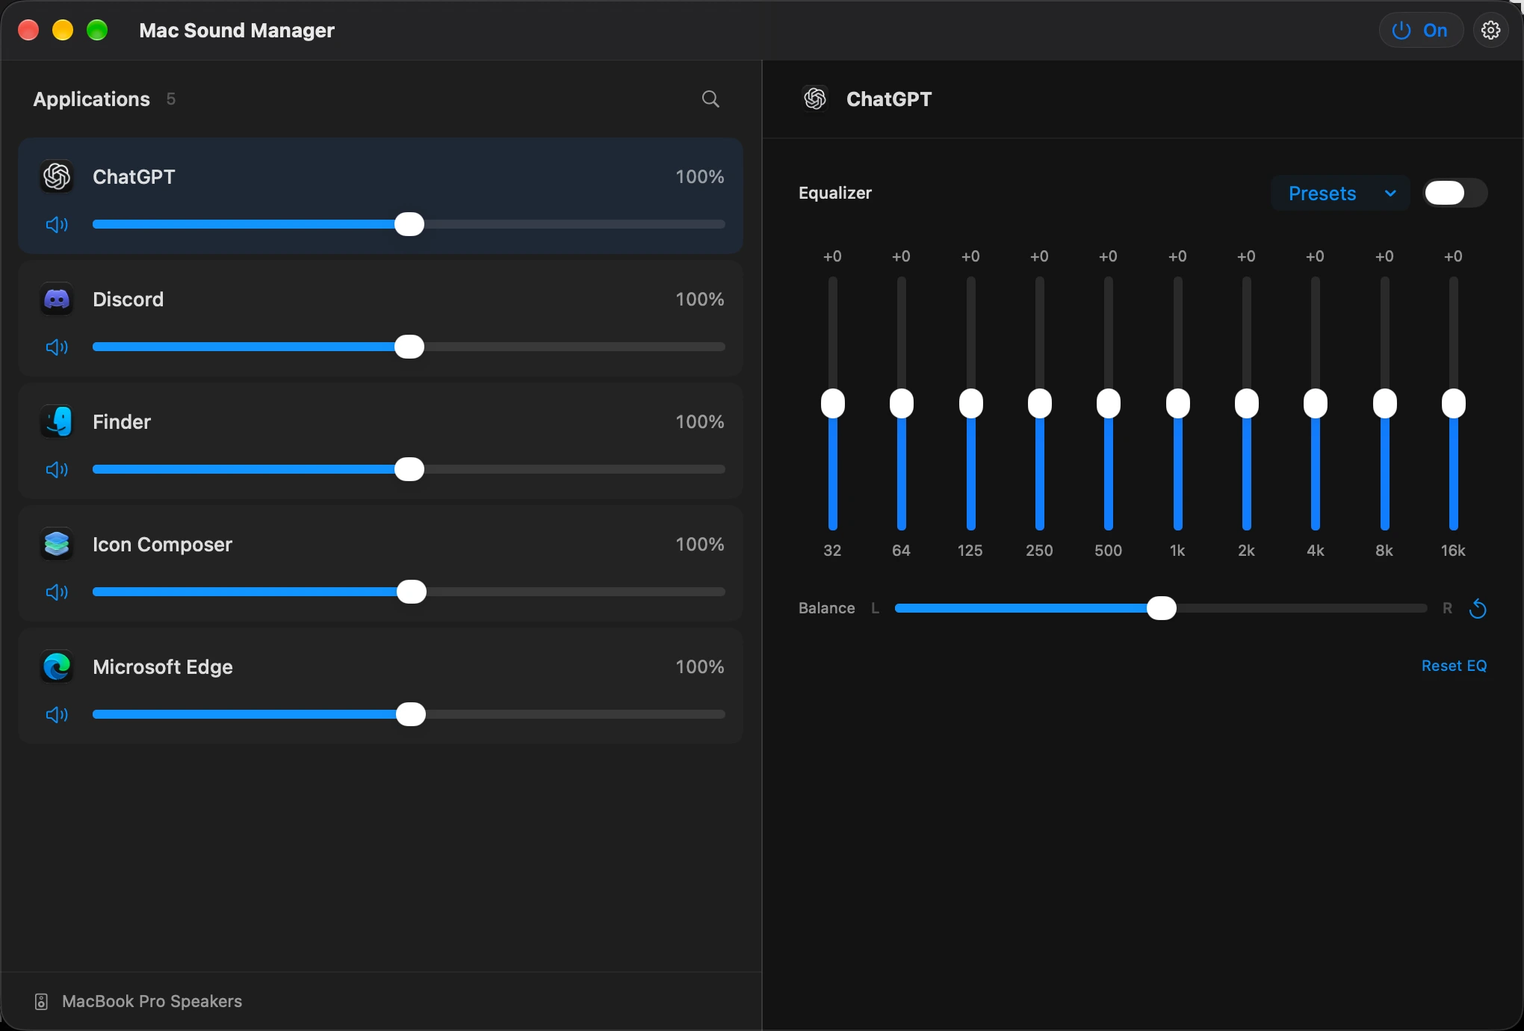
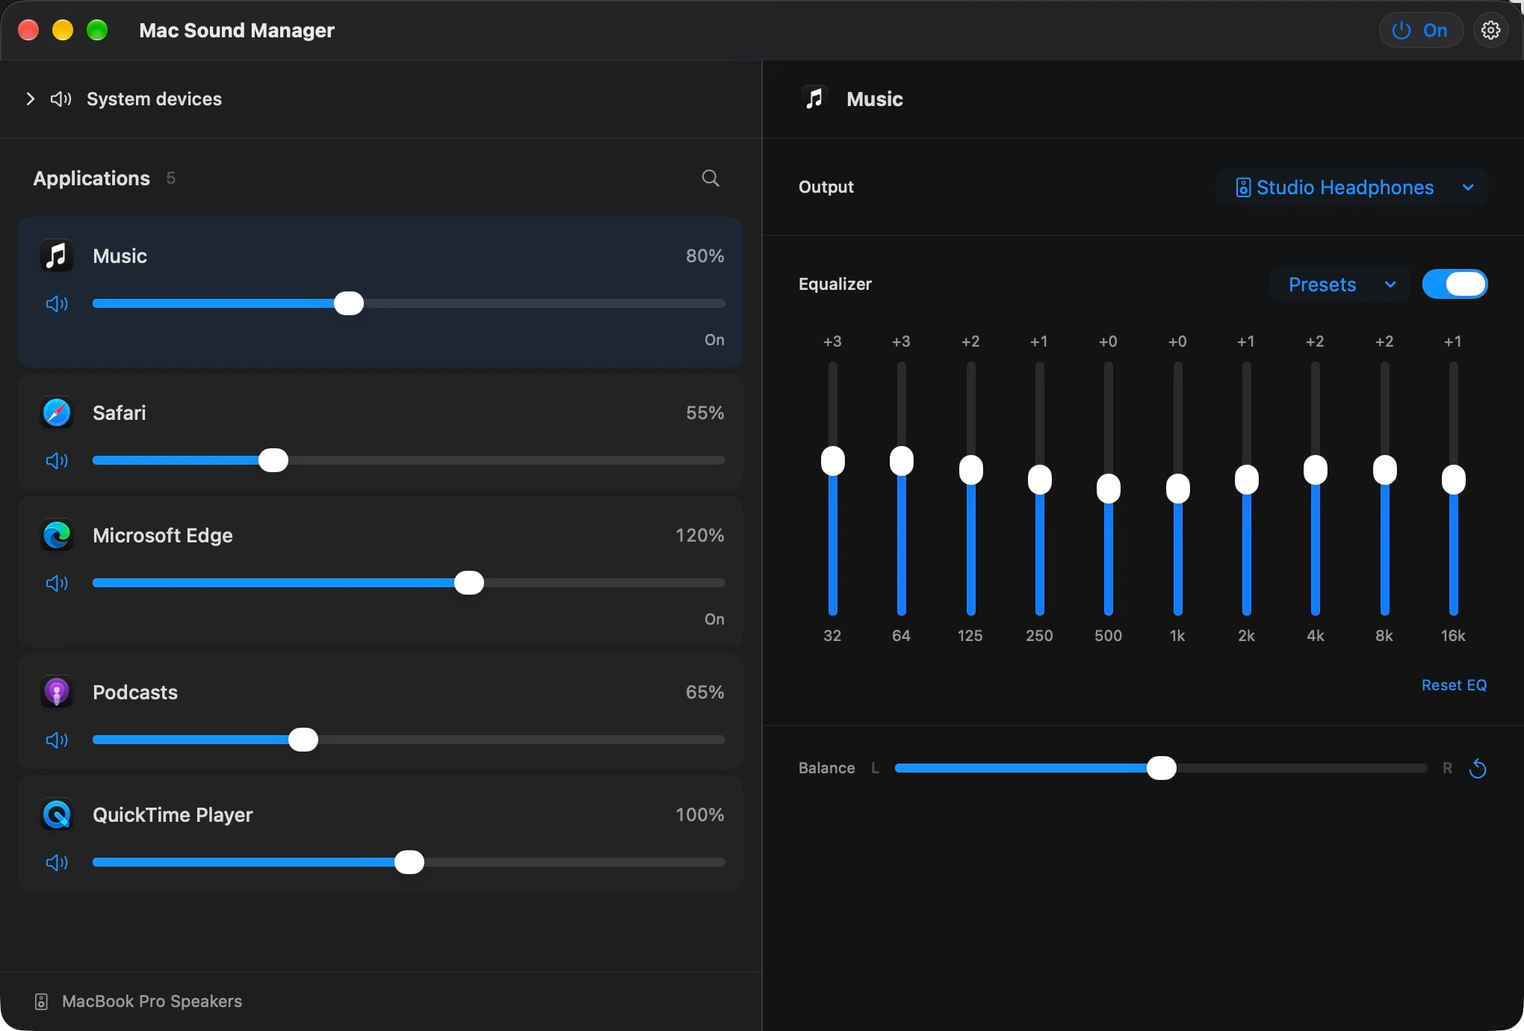
Update Mac Sound Manager for 0.4.0
Add output routing and system audio controls to the product page, update screenshots and feature copy, publish 0.4.0 download links and release notes, and document saved device preferences in the privacy policy.

diff --git a/mac-sound-manager/index.html b/mac-sound-manager/index.html
@@ -4,7 +4,7 @@
   <meta charset="utf-8">
   <meta name="viewport" content="width=device-width, initial-scale=1">
   <title>Mac Sound Manager — A volume knob for every app</title>
-  <meta name="description" content="A native, open-source volume mixer for Mac. Set volume for each app, shape its sound with a 10-band EQ, and keep your mix in the menu bar.">
+  <meta name="description" content="A native, open-source volume mixer for Mac. Set each app’s volume and output device, shape its sound with a 10-band EQ, and manage system audio from one native mixer.">
   <link rel="canonical" href="https://stefanmihajlovic.com/mac-sound-manager/">
   <meta property="og:type" content="website">
   <meta property="og:title" content="Mac Sound Manager — A volume knob for every app">
@@ -15,9 +15,9 @@
   <meta name="theme-color" content="#f6f8fa">
   <link rel="icon" href="assets/icon-dark.png" type="image/png">
   <link rel="preload" href="/fonts/cabinet-grotesk-variable.woff2" as="font" type="font/woff2" crossorigin>
-  <link rel="stylesheet" href="style.css?v=github-icon-1">
+  <link rel="stylesheet" href="style.css?v=040-screenshots-1">
   <script src="page.js?v=section-parallax-1" defer></script>
-  <script type="application/ld+json">{"@context":"https://schema.org","@type":"SoftwareApplication","name":"Mac Sound Manager","url":"https://stefanmihajlovic.com/mac-sound-manager/","image":"https://stefanmihajlovic.com/mac-sound-manager/assets/icon-dark.png","operatingSystem":"macOS 14.2 or later","applicationCategory":"MultimediaApplication","softwareVersion":"0.3.2","license":"https://opensource.org/license/mit","codeRepository":"https://github.com/Stefan-Mihajlovic/Mac-Sound-Manager","offers":{"@type":"Offer","price":"0","priceCurrency":"USD"},"author":{"@type":"Person","name":"Stefan Mihajlovic","url":"https://stefanmihajlovic.com/"}}</script>
+  <script type="application/ld+json">{"@context":"https://schema.org","@type":"SoftwareApplication","name":"Mac Sound Manager","url":"https://stefanmihajlovic.com/mac-sound-manager/","image":"https://stefanmihajlovic.com/mac-sound-manager/assets/icon-dark.png","operatingSystem":"macOS 14.2 or later","applicationCategory":"MultimediaApplication","softwareVersion":"0.4.0","license":"https://opensource.org/license/mit","codeRepository":"https://github.com/Stefan-Mihajlovic/Mac-Sound-Manager","offers":{"@type":"Offer","price":"0","priceCurrency":"USD"},"author":{"@type":"Person","name":"Stefan Mihajlovic","url":"https://stefanmihajlovic.com/"}}</script>
 </head>
 <body>
 <a class="skip-link" href="#main">Skip to content</a>
@@ -25,7 +25,7 @@
 
 <header class="floating-header" aria-label="Quick navigation" inert>
   <a class="brand" href="#top"><img src="assets/icon-dark.webp" width="34" height="34" alt=""><span>Mac Sound Manager</span></a>
-  <nav aria-label="Download navigation"><a href="/mac-sound-manager/release-notes/">Release notes</a><a class="button primary" href="https://github.com/Stefan-Mihajlovic/Mac-Sound-Manager/releases/download/v0.3.2/Mac-Sound-Manager-0.3.2-universal.dmg"><svg aria-hidden="true"><use href="#download-icon"/></svg> <span>Download<span class="button-platform"> for Mac</span></span></a></nav>
+  <nav aria-label="Download navigation"><a href="/mac-sound-manager/release-notes/">Release notes</a><a class="button primary" href="https://github.com/Stefan-Mihajlovic/Mac-Sound-Manager/releases/download/v0.4.0/Mac-Sound-Manager-0.4.0-universal.dmg"><svg aria-hidden="true"><use href="#download-icon"/></svg> <span>Download<span class="button-platform"> for Mac</span></span></a></nav>
 </header>
 <main id="main"><div class="hero-backdrop" id="top">
 <svg xmlns="http://www.w3.org/2000/svg" class="hero-waves" aria-hidden="true" focusable="false" viewBox="0 0 1600 520" preserveAspectRatio="none" fill="none">
@@ -45,20 +45,28 @@
 
 <header class="site-header wrap"><a class="brand" href="#top"><img src="assets/icon-dark.webp" width="34" height="34" alt=""><span>Mac Sound Manager</span></a><nav aria-label="Main navigation"><a href="/mac-sound-manager/release-notes/">Release notes</a><a class="github-link" href="https://github.com/Stefan-Mihajlovic/Mac-Sound-Manager"><svg class="github-icon" aria-hidden="true" focusable="false" width="24" height="24" viewBox="0 0 24 24" fill="none" xmlns="http://www.w3.org/2000/svg"><g><path fill-rule="evenodd" clip-rule="evenodd" d="M12.0099 0C5.36875 0 0 5.40833 0 12.0992C0 17.4475 3.43994 21.9748 8.21205 23.5771C8.80869 23.6976 9.02724 23.3168 9.02724 22.9965C9.02724 22.716 9.00757 21.7545 9.00757 20.7527C5.6667 21.474 4.97099 19.3104 4.97099 19.3104C4.43409 17.9082 3.63858 17.5478 3.63858 17.5478C2.54511 16.8066 3.71823 16.8066 3.71823 16.8066C4.93117 16.8868 5.56763 18.0486 5.56763 18.0486C6.64118 19.8913 8.37111 19.3707 9.06706 19.0501C9.16638 18.2688 9.48473 17.728 9.82275 17.4276C7.15817 17.1471 4.35469 16.1055 4.35469 11.458C4.35469 10.1359 4.8316 9.05428 5.58729 8.21304C5.46807 7.91263 5.0504 6.67043 5.70677 5.00787C5.70677 5.00787 6.72083 4.6873 9.00732 6.24981C9.98625 5.98497 10.9958 5.85024 12.0099 5.84911C13.024 5.84911 14.0577 5.98948 15.0123 6.24981C17.299 4.6873 18.3131 5.00787 18.3131 5.00787C18.9695 6.67043 18.5515 7.91263 18.4323 8.21304C19.2079 9.05428 19.6652 10.1359 19.6652 11.458C19.6652 16.1055 16.8617 17.1269 14.1772 17.4276C14.6148 17.8081 14.9924 18.5292 14.9924 19.6711C14.9924 21.2936 14.9727 22.5957 14.9727 22.9962C14.9727 23.3168 15.1915 23.6976 15.7879 23.5774C20.56 21.9745 23.9999 17.4475 23.9999 12.0992C24.0196 5.40833 18.6312 0 12.0099 0Z" fill="currentColor"/></g></svg><span>GitHub</span></a></nav></header>
 <section class="hero wrap" aria-labelledby="hero-title">
-<div class="hero-copy"><h1 id="hero-title">Mac Sound Manager</h1><p>Free &amp; open source · macOS 14.2+</p><a class="button primary" href="https://github.com/Stefan-Mihajlovic/Mac-Sound-Manager/releases/download/v0.3.2/Mac-Sound-Manager-0.3.2-universal.dmg"><svg aria-hidden="true"><use href="#download-icon"/></svg> <span>Download<span class="button-platform"> for Mac</span></span></a></div>
-<figure class="app-shot"><img src="assets/app-window.webp" width="2040" height="1380" fetchpriority="high" alt="Mac Sound Manager with horizontal volume controls for open apps and a separate equalizer panel"></figure>
+<div class="hero-copy"><h1 id="hero-title">Mac Sound Manager</h1><p>Free &amp; open source · macOS 14.2+</p><a class="button primary" href="https://github.com/Stefan-Mihajlovic/Mac-Sound-Manager/releases/download/v0.4.0/Mac-Sound-Manager-0.4.0-universal.dmg"><svg aria-hidden="true"><use href="#download-icon"/></svg> <span>Download<span class="button-platform"> for Mac</span></span></a></div>
+<figure class="app-shot"><img src="assets/app-window.webp?v=040" width="2040" height="1380" fetchpriority="high" alt="Mac Sound Manager mixing Music, Safari, Microsoft Edge, Podcasts and QuickTime Player, with a separate output and equalizer panel"></figure>
 </section></div>
 <section class="feature-section wrap" id="features" aria-labelledby="menu-title">
-  <div class="feature-copy"><h2 id="menu-title">Always in your<br>menu bar</h2><p>Adjust any open app without leaving what you’re doing, even before it starts playing</p></div>
-  <figure class="product-scene menu-scene"><img src="assets/menu-bar.webp" width="876" height="686" loading="lazy" alt="Mac Sound Manager’s menu bar popup with a volume slider for each open app"></figure>
+  <div class="feature-copy"><h2 id="menu-title">Always in your<br>menu bar</h2><p>Set each app’s volume up to 200% or mute it with a click, even before it starts playing. Open the full mixer or system devices straight from the menu bar.</p></div>
+  <figure class="product-scene menu-scene"><img src="assets/menu-bar.webp?v=040" width="876" height="700" loading="lazy" alt="Mac Sound Manager’s menu bar popup with a volume slider for each open app"></figure>
 </section>
 <section class="feature-section eq-section wrap" aria-labelledby="eq-title">
-  <figure class="product-scene equalizer-scene"><img src="assets/equalizer.webp" width="1014" height="870" loading="lazy" alt="The app’s ten-band equalizer, presets menu and left–right balance control"></figure>
-  <div class="feature-copy"><h2 id="eq-title">Get the sound<br>you like</h2><p>Adjust the bass, treble and left–right balance for each app, then save your settings as a preset</p></div>
+  <figure class="product-scene equalizer-scene"><img src="assets/equalizer.webp?v=040" width="1020" height="1010" loading="lazy" alt="The app’s ten-band equalizer, presets menu and left–right balance control"></figure>
+  <div class="feature-copy"><h2 id="eq-title">Get the sound<br>you like</h2><p>Shape each app with a 10-band equalizer and left–right balance. Start with a built-in preset, or save your own EQ curves to reuse across apps.</p></div>
+</section>
+<section class="feature-section routing-section wrap" aria-labelledby="routing-title">
+  <div class="feature-copy"><h2 id="routing-title">Choose where<br>each app plays</h2><p>Send your music to headphones and keep your browser on the speakers. Choose a connected output for each app, or let it follow your Mac’s system output.</p><p class="feature-note">Your choices are remembered when devices disconnect and reconnect. Routing applies while processing is on.</p></div>
+  <figure class="product-scene routing-scene"><img src="assets/routing.webp?v=040" width="1020" height="375" loading="lazy" alt="Music output selector with System output, MacBook Pro Speakers and Studio Headphones choices"></figure>
+</section>
+<section class="feature-section eq-section devices-section wrap" aria-labelledby="devices-title">
+  <figure class="product-scene devices-scene"><img src="assets/system-devices.webp?v=040" width="1020" height="464" loading="lazy" alt="System devices controls for speakers, microphone and sound effects, with output and input volume sliders"></figure>
+  <div class="feature-copy"><h2 id="devices-title">Your Mac’s audio,<br>in one place</h2><p>Switch the system output, microphone and sound-effects device. Adjust output and input volume when the device supports it, even with app processing turned off.</p></div>
 </section>
 <section class="remember-section wrap" aria-labelledby="remember-title">
-  <div class="feature-copy"><h2 id="remember-title">Just how you left it</h2><p>Your volume and EQ settings are remembered when you restart, with an option to open the app when you log in</p></div>
-  <figure class="settings-shot"><img src="assets/settings.webp" width="792" height="330" loading="lazy" alt="Settings for showing the app in the menu bar or Dock and launching at login"></figure>
+  <div class="feature-copy"><h2 id="remember-title">Just how you left it</h2><p>Volume, mute, EQ, balance and output choices are saved automatically. Turn the mixer off without losing your mix, start at login, and choose whether it appears in the menu bar or Dock.</p></div>
+  <figure class="settings-shot"><img src="assets/settings.webp?v=040" width="800" height="340" loading="lazy" alt="Settings for showing the app in the menu bar or Dock and launching at login"></figure>
 </section>
 </main>
 <footer class="site-footer">
@@ -82,8 +90,9 @@
 
   <section class="download-section wrap" id="download" aria-labelledby="download-title">
     <h2 id="download-title">Get Mac Sound Manager</h2>
-    <a class="button primary" href="https://github.com/Stefan-Mihajlovic/Mac-Sound-Manager/releases/download/v0.3.2/Mac-Sound-Manager-0.3.2-universal.dmg"><svg aria-hidden="true"><use href="#download-icon"/></svg> <span>Download<span class="button-platform"> for Mac</span></span></a>
-    <p class="compatibility">Free &amp; open source · macOS 14.2+</p>
+    <a class="button primary" href="https://github.com/Stefan-Mihajlovic/Mac-Sound-Manager/releases/download/v0.4.0/Mac-Sound-Manager-0.4.0-universal.dmg"><svg aria-hidden="true"><use href="#download-icon"/></svg> <span>Download<span class="button-platform"> for Mac</span></span></a>
+    <p class="compatibility">Free &amp; open source · macOS 14.2+ · Apple Silicon &amp; Intel</p>
+    <p class="release-disclosure">0.4.0 development build · Not notarized by Apple. <a href="/mac-sound-manager/release-notes/#install-040">Installation details</a></p>
   </section>
   <div class="footer-inner wrap"><a class="footer-author" href="/">Made by <span>Stefan Mihajlovic</span></a><nav aria-label="Footer navigation"><a class="github-link" href="https://github.com/Stefan-Mihajlovic/Mac-Sound-Manager"><svg class="github-icon" aria-hidden="true" focusable="false" width="24" height="24" viewBox="0 0 24 24" fill="none" xmlns="http://www.w3.org/2000/svg"><g><path fill-rule="evenodd" clip-rule="evenodd" d="M12.0099 0C5.36875 0 0 5.40833 0 12.0992C0 17.4475 3.43994 21.9748 8.21205 23.5771C8.80869 23.6976 9.02724 23.3168 9.02724 22.9965C9.02724 22.716 9.00757 21.7545 9.00757 20.7527C5.6667 21.474 4.97099 19.3104 4.97099 19.3104C4.43409 17.9082 3.63858 17.5478 3.63858 17.5478C2.54511 16.8066 3.71823 16.8066 3.71823 16.8066C4.93117 16.8868 5.56763 18.0486 5.56763 18.0486C6.64118 19.8913 8.37111 19.3707 9.06706 19.0501C9.16638 18.2688 9.48473 17.728 9.82275 17.4276C7.15817 17.1471 4.35469 16.1055 4.35469 11.458C4.35469 10.1359 4.8316 9.05428 5.58729 8.21304C5.46807 7.91263 5.0504 6.67043 5.70677 5.00787C5.70677 5.00787 6.72083 4.6873 9.00732 6.24981C9.98625 5.98497 10.9958 5.85024 12.0099 5.84911C13.024 5.84911 14.0577 5.98948 15.0123 6.24981C17.299 4.6873 18.3131 5.00787 18.3131 5.00787C18.9695 6.67043 18.5515 7.91263 18.4323 8.21304C19.2079 9.05428 19.6652 10.1359 19.6652 11.458C19.6652 16.1055 16.8617 17.1269 14.1772 17.4276C14.6148 17.8081 14.9924 18.5292 14.9924 19.6711C14.9924 21.2936 14.9727 22.5957 14.9727 22.9962C14.9727 23.3168 15.1915 23.6976 15.7879 23.5774C20.56 21.9745 23.9999 17.4475 23.9999 12.0992C24.0196 5.40833 18.6312 0 12.0099 0Z" fill="currentColor"/></g></svg><span>GitHub</span></a><a href="/mac-sound-manager/release-notes/">Release notes</a><a href="/mac-sound-manager/privacy/">Privacy policy</a></nav></div>
 </footer>

diff --git a/mac-sound-manager/release-notes/index.html b/mac-sound-manager/release-notes/index.html
@@ -21,12 +21,31 @@
 </head>
 <body class="document-page">
 <a class="skip-link" href="#main">Skip to content</a>
-<header class="site-header wrap"><a class="brand" href="/mac-sound-manager/"><img src="/mac-sound-manager/assets/icon-dark.webp" width="34" height="34" alt=""><span>Mac Sound Manager</span></a><nav aria-label="Main navigation"><a href="/mac-sound-manager/">Back to app</a><a class="button primary" href="https://github.com/Stefan-Mihajlovic/Mac-Sound-Manager/releases/download/v0.3.2/Mac-Sound-Manager-0.3.2-universal.dmg"><svg aria-hidden="true" viewBox="0 0 24 24"><path d="M12 3v12m-5-5 5 5 5-5M4 16v5h16v-5"/></svg> <span>Download<span class="button-platform"> for Mac</span></span></a></nav></header>
+<header class="site-header wrap"><a class="brand" href="/mac-sound-manager/"><img src="/mac-sound-manager/assets/icon-dark.webp" width="34" height="34" alt=""><span>Mac Sound Manager</span></a><nav aria-label="Main navigation"><a href="/mac-sound-manager/">Back to app</a><a class="button primary" href="https://github.com/Stefan-Mihajlovic/Mac-Sound-Manager/releases/download/v0.4.0/Mac-Sound-Manager-0.4.0-universal.dmg"><svg aria-hidden="true" viewBox="0 0 24 24"><path d="M12 3v12m-5-5 5 5 5-5M4 16v5h16v-5"/></svg> <span>Download<span class="button-platform"> for Mac</span></span></a></nav></header>
 <main class="document-main" id="main">
   <header class="document-intro"><h1>Release notes</h1><p>What’s new in Mac Sound Manager</p></header>
+  <article class="release-entry" aria-labelledby="release-040">
+    <div class="release-heading"><h2 id="release-040">0.4.0</h2><time datetime="2026-11-03">November 3, 2026</time></div>
+    <p class="release-summary">Output routing and system audio controls</p>
+    <ul>
+      <li>Choose a separate output device for each app, or follow the system output</li>
+      <li>Remember device selections across launches and reconnect when devices return</li>
+      <li>Switch the system output, microphone and sound-effects destination, with hardware volume controls where supported</li>
+      <li>Use a cleaner detail panel with separate Output, Equalizer and Balance sections</li>
+      <li>Open System devices from the menu-bar mixer, with the main-window section collapsed by default</li>
+      <li>Use shorter, direct device menus and smooth section expansion</li>
+      <li>Avoid redundant app-list updates and stop periodic audio discovery while the mixer is off or asleep</li>
+      <li>Keep per-app volume up to 200%, mute, ten-band EQ, saved EQ presets, balance and launch-at-login options</li>
+    </ul>
+    <p>A universal development build for Apple Silicon and Intel Macs running macOS 14.2 or later.</p>
+    <a class="button primary" href="https://github.com/Stefan-Mihajlovic/Mac-Sound-Manager/releases/download/v0.4.0/Mac-Sound-Manager-0.4.0-universal.dmg"><svg aria-hidden="true" viewBox="0 0 24 24"><path d="M12 3v12m-5-5 5 5 5-5M4 16v5h16v-5"/></svg> Download 0.4.0</a>
+    <section aria-labelledby="install-040"><h3 id="install-040">Installing this development build</h3><p>Open the DMG, drag Mac Sound Manager into Applications, then launch it. Allow system audio recording when prompted to enable app processing.</p><p>This build is ad-hoc signed, not Developer ID signed or notarized by Apple. If macOS blocks it, review the source before using the app-specific Open Anyway option in System Settings → Privacy &amp; Security.</p></section>
+    <section aria-labelledby="limits-040"><h3 id="limits-040">What to expect</h3><p>Controls apply to whole apps, not individual browser tabs. Turning processing off restores the app’s original output while keeping its saved settings. The start of playback can be audible before processing begins.</p><p>Bluetooth, simultaneous playback through multiple physical devices, long-running clock drift and capture recovery still need broader hardware testing. This remains a development prerelease.</p></section>
+    <p class="document-source"><a href="https://github.com/Stefan-Mihajlovic/Mac-Sound-Manager/releases/tag/v0.4.0">View this release on GitHub</a></p>
+  </article>
   <article class="release-entry" aria-labelledby="release-032">
     <div class="release-heading"><h2 id="release-032">0.3.2</h2><time datetime="2026-11-02">November 2, 2026</time></div>
-    <p class="release-summary">The first public release</p>
+    <p class="release-summary">The first public development release</p>
     <ul>
       <li>Separate volume, mute, balance and a 10-band EQ for each app</li>
       <li>Save, reuse and delete your own EQ presets</li>

diff --git a/mac-sound-manager/privacy/index.html b/mac-sound-manager/privacy/index.html
@@ -26,7 +26,7 @@
   <header class="document-intro"><h1>Privacy policy</h1><p>For the Mac Sound Manager app</p><p class="document-date">Updated <time datetime="2026-11-02">November 2, 2026</time></p></header>
   <p>Mac Sound Manager is a native Mac app by Stefan Mihajlovic. It works without an account and processes audio on your Mac. The app has no analytics, advertising or tracking services.</p>
   <section aria-labelledby="audio-title"><h2 id="audio-title">Your audio stays on your Mac</h2><p>The app uses macOS audio capture to adjust the volume, equalizer and balance of apps you select. Audio passes through temporary buffers in memory so it can be processed and played back. It is not saved as a recording, uploaded or sent to the developer.</p><p>System Audio Recording permission is used for this local processing. The app does not capture microphone input or record your screen.</p></section>
-  <section aria-labelledby="apps-title"><h2 id="apps-title">Apps and saved settings</h2><p>Mac Sound Manager reads the names, icons and identifiers of running apps and their audio processes to build the mixer and apply your controls. This information stays on your Mac.</p><p>Your per-app volume, mute, balance, EQ and enabled state are saved locally, along with named EQ presets, master power and menu-bar and Dock preferences. App identifiers associate each saved setting with the right app. These preferences are not uploaded or synced by Mac Sound Manager.</p></section>
+  <section aria-labelledby="apps-title"><h2 id="apps-title">Apps and saved settings</h2><p>Mac Sound Manager reads the names, icons and identifiers of running apps and their audio processes to build the mixer and apply your controls. This information stays on your Mac.</p><p>Your per-app volume, mute, balance, EQ, selected output-device identifiers and enabled state are saved locally, along with named EQ presets, master power and menu-bar and Dock preferences. App identifiers associate each saved setting with the right app. These preferences are not uploaded or synced by Mac Sound Manager.</p></section>
   <section aria-labelledby="control-title"><h2 id="control-title">You’re in control</h2><p>You can change settings and delete saved EQ presets in the app. Bypassing a channel stops its processing while keeping its settings. Quitting stops all audio capture; closing the window leaves the mixer running.</p><p>You can revoke audio-capture permission in macOS System Settings → Privacy &amp; Security and turn off Launch at login in the app’s settings. Locally saved preferences can remain after you remove the app. Contact us if you need help clearing them.</p></section>
   <section aria-labelledby="web-title"><h2 id="web-title">Downloads and support</h2><p>This policy describes the Mac app. Visiting the website or downloading a release creates a normal web request, which can include your IP address and browser information. Downloads and public issue reports are hosted on GitHub and are subject to <a href="https://docs.github.com/en/site-policy/privacy-policies/github-general-privacy-statement">GitHub’s privacy statement</a>.</p><p>If you contact us, we receive the contact details and message you choose to send so we can respond. Public GitHub issues are visible to others; use email for private questions and avoid including private audio or other sensitive content.</p></section>
   <section aria-labelledby="contact-title"><h2 id="contact-title">Questions or changes</h2><p>For privacy questions, email Stefan Mihajlovic at <a href="mailto:stefan@optiflowz.com">stefan@optiflowz.com</a>. If the app’s data handling changes, this page will be updated with a new date.</p><p class="document-source">You can also <a href="https://github.com/Stefan-Mihajlovic/Mac-Sound-Manager">inspect the app’s source code</a>.</p></section>

diff --git a/mac-sound-manager/style.css b/mac-sound-manager/style.css
@@ -47,3 +47,11 @@ body:before{content:'';position:absolute;inset:0;z-index:-1;pointer-events:none;
 @media(prefers-reduced-motion:reduce){body:before{animation:none;transform:none}}
 
 .github-link{display:inline-flex;align-items:center;gap:8px}.github-icon{width:18px;height:18px;fill:currentColor;stroke:none}
+
+/* 0.4.0: new device features use the existing screenshot-and-copy rhythm. */
+.routing-section{padding-top:20px}.routing-scene{background:linear-gradient(145deg,#e1eaf3,#dce7ed 55%,#eaeef2)}
+.devices-scene{background:linear-gradient(150deg,#e3edf1,#d7e8ee 55%,#e9eef2)}
+.feature-copy .feature-note{font-size:16px;line-height:1.65;margin-top:18px}
+.release-disclosure{font-size:14px;line-height:1.6;color:#4b5e70;margin:10px auto 0;max-width:440px}
+.release-disclosure a{text-decoration:underline;text-underline-offset:3px}
+@media(max-width:650px){.routing-section{padding-top:15px}.release-disclosure{max-width:320px}}

diff --git a/mac-sound-manager/document.css b/mac-sound-manager/document.css
@@ -18,3 +18,5 @@
 .document-page .site-header nav .button:hover{color:white}
 @media(max-width:650px){.document-main{width:calc(100% - 40px);padding:38px 0 64px;font-size:17px}.document-intro{margin-bottom:36px}.document-intro>p{font-size:18px}.document-page .site-header nav .button{font-size:15px;padding:10px 12px;gap:7px}.document-page .site-header{gap:8px}.document-page .site-header .brand{gap:6px}.release-heading h2{font-size:32px}.document-main h2{font-size:26px}.document-footer{padding-top:64px}.document-footer .footer-inner{padding-block:27px}}
 @media(max-width:380px){.document-page .site-header .brand span{max-width:100px;line-height:1.15}.document-page .site-header nav .button{padding-inline:10px}}
+
+.release-entry + .release-entry{margin-top:72px}
